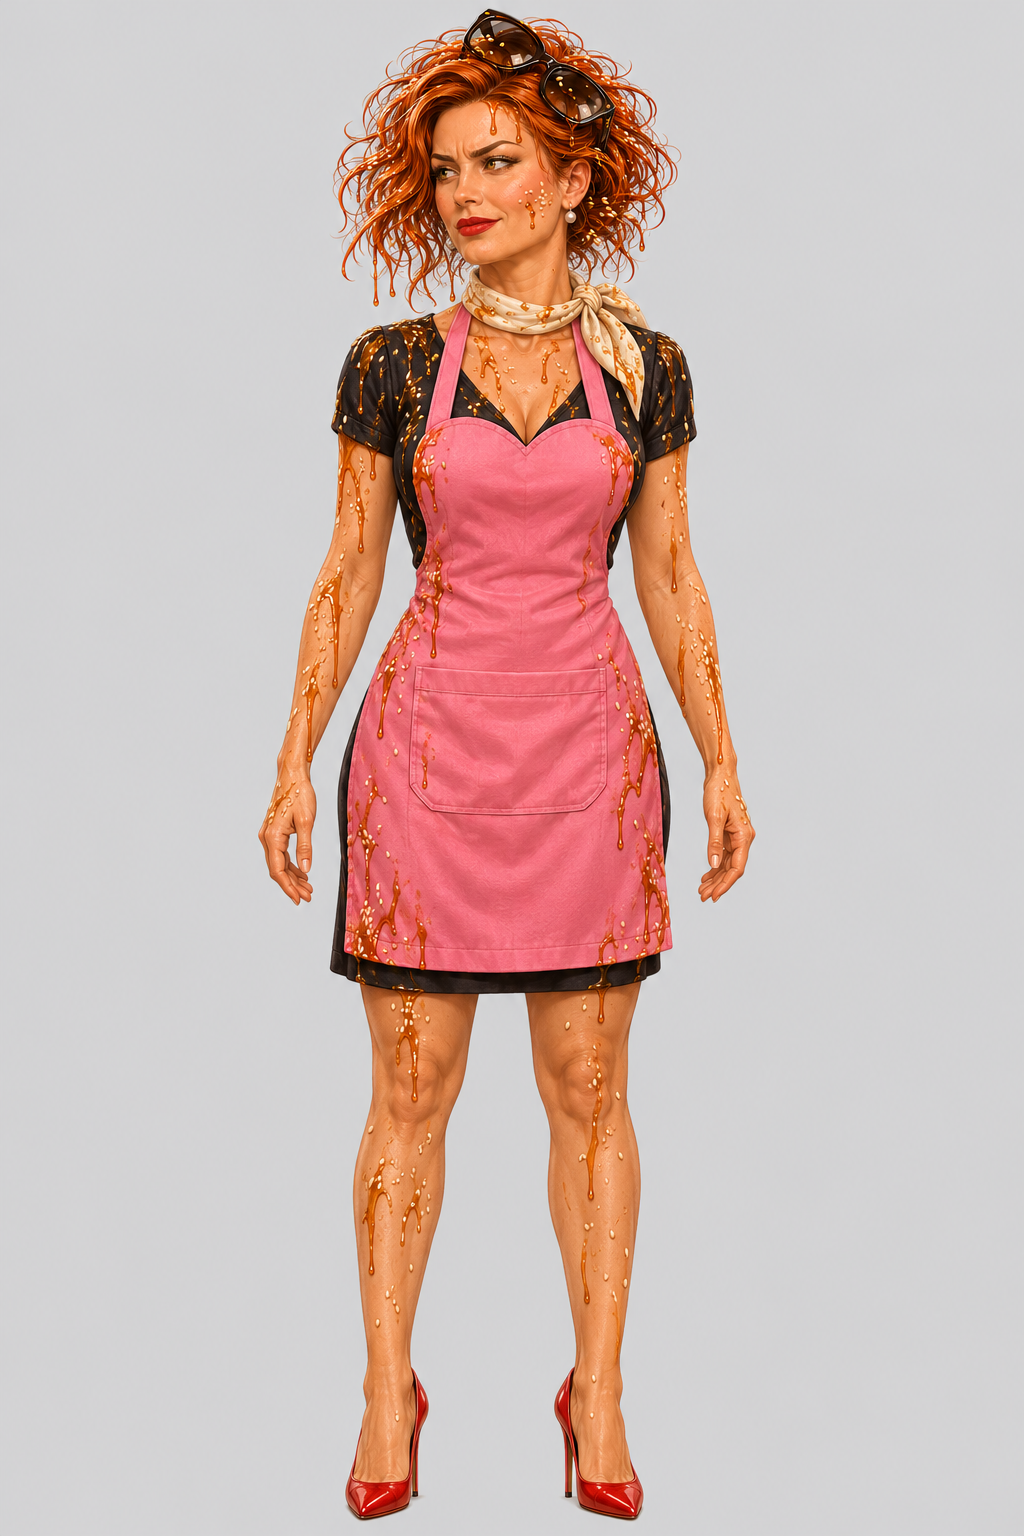
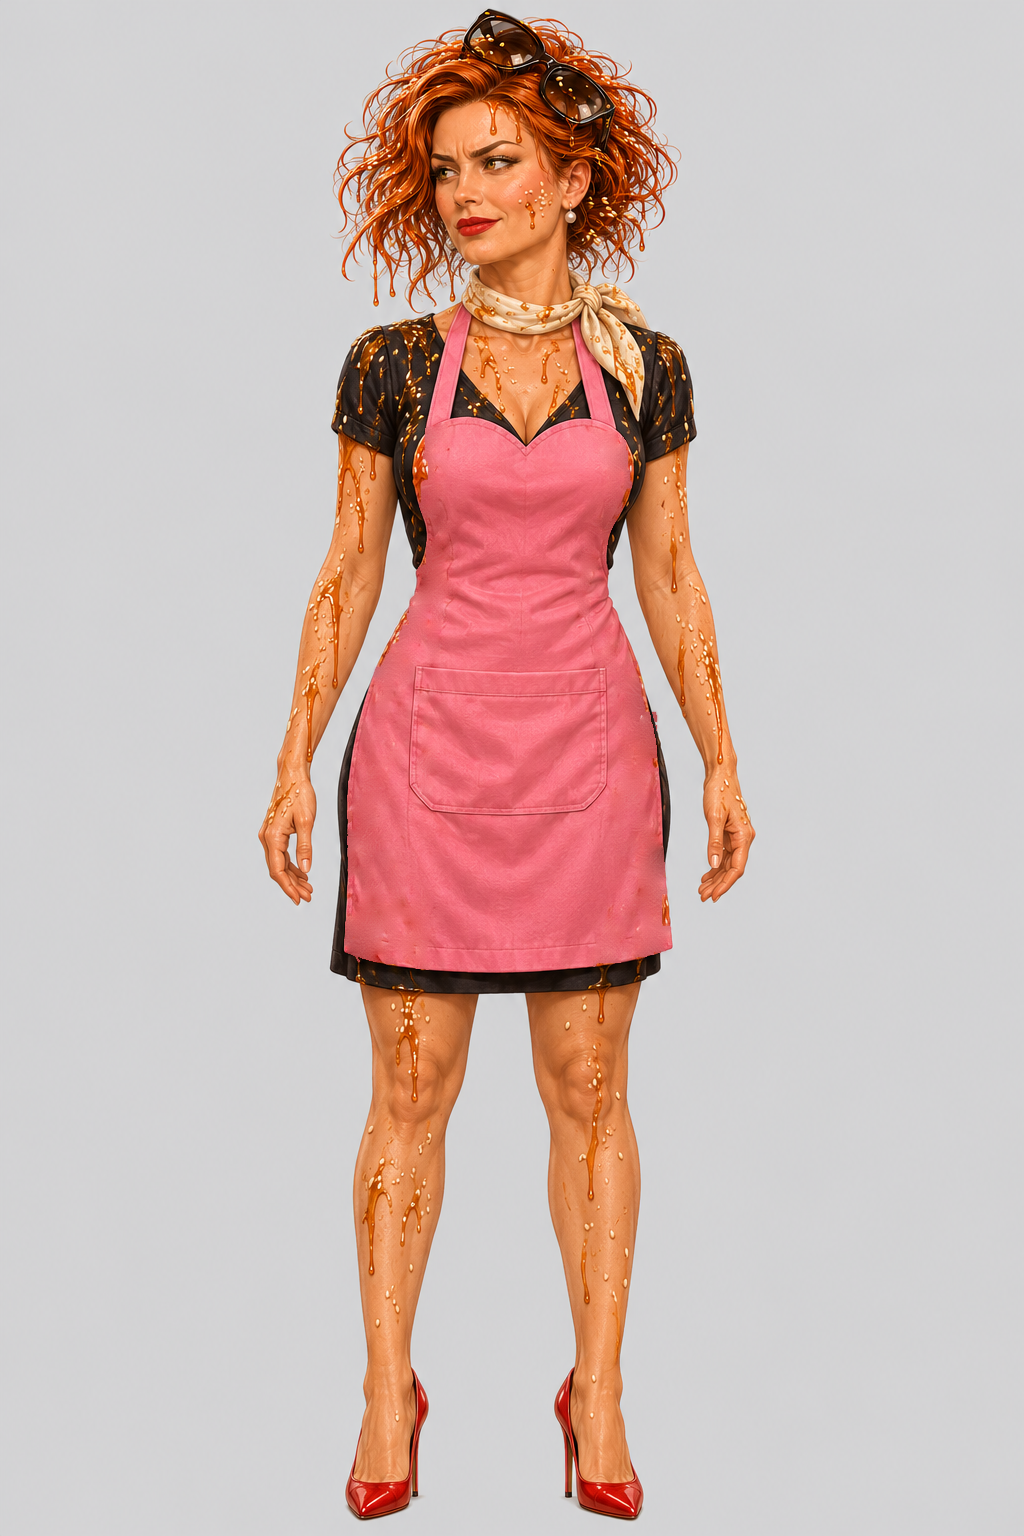
Vaka 3: kıyafet kartı G103'ün önlüğü de temizlendi
Önlüklü Peri'nin kıyafet kartı (referans; oyunda görünmez) da pekmezli ve
susamlıydı. Aynı yöntemle yalnız önlük temizlendi; istem notları güncellendi.

diff --git a/uretim/v3/prompts/G65.md b/uretim/v3/prompts/G65.md
@@ -55,4 +55,4 @@ Peri'nin elbisesi, pembe önlüğü, kolları ve bacakları hâlâ pekmezli ve s
 
 ## Düzeltme (9 Kasım 2026)
 
-Önlükteki pekmez ve susam onaydan sonra fark edildi: Gizem temiz bir önlük veriyor, önlük TEMİZ olmalı. `onayli/G65.png` ve oyundaki dosya elle temizlendi (yalnız önlük; resmin geri kalanı aynı). Bu istem yeniden kullanılırsa önlük için "üstünde hiç pekmez, hiç susam yok" yazılır; kart G103 da lekeli, referans verilirse bu söylenir.
+Önlükteki pekmez ve susam onaydan sonra fark edildi: Gizem temiz bir önlük veriyor, önlük TEMİZ olmalı. `onayli/G65.png` ve oyundaki dosya elle temizlendi (yalnız önlük; resmin geri kalanı aynı). Bu istem yeniden kullanılırsa önlük için "üstünde hiç pekmez, hiç susam yok" yazılır; kart G103 da aynı gün temizlendi.

diff --git a/uretim/v3/prompts/G66.md b/uretim/v3/prompts/G66.md
@@ -49,4 +49,4 @@ Peri'nin TAM İKİ eli var: SOL elinin işaret parmağı dudaklarında ("şşş"
 
 ## Düzeltme (9 Kasım 2026)
 
-Önlükteki pekmez ve susam onaydan sonra fark edildi: Gizem temiz bir önlük veriyor, önlük TEMİZ olmalı. `onayli/G66.png` ve oyundaki dosya elle temizlendi (yalnız önlük; resmin geri kalanı aynı). Bu istem yeniden kullanılırsa önlük için "üstünde hiç pekmez, hiç susam yok" yazılır; kart G103 da lekeli, referans verilirse bu söylenir.
+Önlükteki pekmez ve susam onaydan sonra fark edildi: Gizem temiz bir önlük veriyor, önlük TEMİZ olmalı. `onayli/G66.png` ve oyundaki dosya elle temizlendi (yalnız önlük; resmin geri kalanı aynı). Bu istem yeniden kullanılırsa önlük için "üstünde hiç pekmez, hiç susam yok" yazılır; kart G103 da aynı gün temizlendi.

diff --git a/uretim/v3/prompts/G3.md b/uretim/v3/prompts/G3.md
@@ -48,4 +48,4 @@ Son referans YALNIZ bitmiş çizim tarzı örneğidir: boya dokusu, ince kontur,
 
 ## Düzeltme (9 Kasım 2026)
 
-Önlükteki pekmez ve susam onaydan sonra fark edildi: Gizem temiz bir önlük veriyor, önlük TEMİZ olmalı. `onayli/G3.png` ve oyundaki dosya elle temizlendi (yalnız önlük; resmin geri kalanı aynı). Bu istem yeniden kullanılırsa önlük için "üstünde hiç pekmez, hiç susam yok" yazılır; kart G103 da lekeli, referans verilirse bu söylenir.
+Önlükteki pekmez ve susam onaydan sonra fark edildi: Gizem temiz bir önlük veriyor, önlük TEMİZ olmalı. `onayli/G3.png` ve oyundaki dosya elle temizlendi (yalnız önlük; resmin geri kalanı aynı). Bu istem yeniden kullanılırsa önlük için "üstünde hiç pekmez, hiç susam yok" yazılır; kart G103 da aynı gün temizlendi.

diff --git a/uretim/v3/prompts/G26.md b/uretim/v3/prompts/G26.md
@@ -48,4 +48,4 @@ Görselin oranı TAM 4:5, dikey (1122×1402).
 
 ## Düzeltme (9 Kasım 2026)
 
-Önlükteki pekmez ve susam onaydan sonra fark edildi: Gizem temiz bir önlük veriyor, önlük TEMİZ olmalı. `onayli/G26.png` ve oyundaki dosya elle temizlendi (yalnız önlük; resmin geri kalanı aynı). Bu istem yeniden kullanılırsa önlük için "üstünde hiç pekmez, hiç susam yok" yazılır; kart G103 da lekeli, referans verilirse bu söylenir.
+Önlükteki pekmez ve susam onaydan sonra fark edildi: Gizem temiz bir önlük veriyor, önlük TEMİZ olmalı. `onayli/G26.png` ve oyundaki dosya elle temizlendi (yalnız önlük; resmin geri kalanı aynı). Bu istem yeniden kullanılırsa önlük için "üstünde hiç pekmez, hiç susam yok" yazılır; kart G103 da aynı gün temizlendi.

diff --git a/uretim/v3/prompts/G27.md b/uretim/v3/prompts/G27.md
@@ -45,4 +45,4 @@ Görselin oranı TAM 4:5, dikey (1122×1402).
 
 ## Düzeltme (9 Kasım 2026)
 
-Önlükteki pekmez ve susam onaydan sonra fark edildi: Gizem temiz bir önlük veriyor, önlük TEMİZ olmalı. `onayli/G27.png` ve oyundaki dosya elle temizlendi (yalnız önlük; resmin geri kalanı aynı). Bu istem yeniden kullanılırsa önlük için "üstünde hiç pekmez, hiç susam yok" yazılır; kart G103 da lekeli, referans verilirse bu söylenir.
+Önlükteki pekmez ve susam onaydan sonra fark edildi: Gizem temiz bir önlük veriyor, önlük TEMİZ olmalı. `onayli/G27.png` ve oyundaki dosya elle temizlendi (yalnız önlük; resmin geri kalanı aynı). Bu istem yeniden kullanılırsa önlük için "üstünde hiç pekmez, hiç susam yok" yazılır; kart G103 da aynı gün temizlendi.

diff --git a/uretim/v3/prompts/G28.md b/uretim/v3/prompts/G28.md
@@ -44,4 +44,4 @@ Görselin oranı TAM 4:5, dikey (1122×1402).
 
 ## Düzeltme (9 Kasım 2026)
 
-Önlükteki pekmez ve susam onaydan sonra fark edildi: Gizem temiz bir önlük veriyor, önlük TEMİZ olmalı. `onayli/G28.png` ve oyundaki dosya elle temizlendi (yalnız önlük; resmin geri kalanı aynı). Bu istem yeniden kullanılırsa önlük için "üstünde hiç pekmez, hiç susam yok" yazılır; kart G103 da lekeli, referans verilirse bu söylenir.
+Önlükteki pekmez ve susam onaydan sonra fark edildi: Gizem temiz bir önlük veriyor, önlük TEMİZ olmalı. `onayli/G28.png` ve oyundaki dosya elle temizlendi (yalnız önlük; resmin geri kalanı aynı). Bu istem yeniden kullanılırsa önlük için "üstünde hiç pekmez, hiç susam yok" yazılır; kart G103 da aynı gün temizlendi.

diff --git a/uretim/v3/prompts/G63.md b/uretim/v3/prompts/G63.md
@@ -43,4 +43,4 @@ Görselin oranı TAM 3:4, dikey (1086×1448).
 
 ## Düzeltme (9 Kasım 2026)
 
-Önlükteki pekmez ve susam onaydan sonra fark edildi: Gizem temiz bir önlük veriyor, önlük TEMİZ olmalı. `onayli/G63.png` ve oyundaki dosya elle temizlendi (yalnız önlük; resmin geri kalanı aynı). Bu istem yeniden kullanılırsa önlük için "üstünde hiç pekmez, hiç susam yok" yazılır; kart G103 da lekeli, referans verilirse bu söylenir.
+Önlükteki pekmez ve susam onaydan sonra fark edildi: Gizem temiz bir önlük veriyor, önlük TEMİZ olmalı. `onayli/G63.png` ve oyundaki dosya elle temizlendi (yalnız önlük; resmin geri kalanı aynı). Bu istem yeniden kullanılırsa önlük için "üstünde hiç pekmez, hiç susam yok" yazılır; kart G103 da aynı gün temizlendi.

diff --git a/uretim/v3/prompts/G64.md b/uretim/v3/prompts/G64.md
@@ -44,4 +44,4 @@ Görselin oranı TAM 3:4, dikey (1086×1448).
 
 ## Düzeltme (9 Kasım 2026)
 
-Önlükteki pekmez ve susam onaydan sonra fark edildi: Gizem temiz bir önlük veriyor, önlük TEMİZ olmalı. `onayli/G64.png` ve oyundaki dosya elle temizlendi (yalnız önlük; resmin geri kalanı aynı). Bu istem yeniden kullanılırsa önlük için "üstünde hiç pekmez, hiç susam yok" yazılır; kart G103 da lekeli, referans verilirse bu söylenir.
+Önlükteki pekmez ve susam onaydan sonra fark edildi: Gizem temiz bir önlük veriyor, önlük TEMİZ olmalı. `onayli/G64.png` ve oyundaki dosya elle temizlendi (yalnız önlük; resmin geri kalanı aynı). Bu istem yeniden kullanılırsa önlük için "üstünde hiç pekmez, hiç susam yok" yazılır; kart G103 da aynı gün temizlendi.

diff --git a/uretim/v3/prompts/G76.md b/uretim/v3/prompts/G76.md
@@ -45,4 +45,4 @@ Görselin oranı TAM 4:5, dikey (1122×1402).
 
 ## Düzeltme (9 Kasım 2026)
 
-Önlükteki pekmez ve susam onaydan sonra fark edildi: Gizem temiz bir önlük veriyor, önlük TEMİZ olmalı. `onayli/G76.png` ve oyundaki dosya elle temizlendi (yalnız önlük; resmin geri kalanı aynı). Bu istem yeniden kullanılırsa önlük için "üstünde hiç pekmez, hiç susam yok" yazılır; kart G103 da lekeli, referans verilirse bu söylenir.
+Önlükteki pekmez ve susam onaydan sonra fark edildi: Gizem temiz bir önlük veriyor, önlük TEMİZ olmalı. `onayli/G76.png` ve oyundaki dosya elle temizlendi (yalnız önlük; resmin geri kalanı aynı). Bu istem yeniden kullanılırsa önlük için "üstünde hiç pekmez, hiç susam yok" yazılır; kart G103 da aynı gün temizlendi.

diff --git a/uretim/v3/prompts/G77.md b/uretim/v3/prompts/G77.md
@@ -45,4 +45,4 @@ Görselin oranı TAM 4:5, dikey (1122×1402).
 
 ## Düzeltme (9 Kasım 2026)
 
-Önlükteki pekmez ve susam onaydan sonra fark edildi: Gizem temiz bir önlük veriyor, önlük TEMİZ olmalı. `onayli/G77.png` ve oyundaki dosya elle temizlendi (yalnız önlük; resmin geri kalanı aynı). Bu istem yeniden kullanılırsa önlük için "üstünde hiç pekmez, hiç susam yok" yazılır; kart G103 da lekeli, referans verilirse bu söylenir.
+Önlükteki pekmez ve susam onaydan sonra fark edildi: Gizem temiz bir önlük veriyor, önlük TEMİZ olmalı. `onayli/G77.png` ve oyundaki dosya elle temizlendi (yalnız önlük; resmin geri kalanı aynı). Bu istem yeniden kullanılırsa önlük için "üstünde hiç pekmez, hiç susam yok" yazılır; kart G103 da aynı gün temizlendi.

diff --git a/uretim/v3/prompts/G96.md b/uretim/v3/prompts/G96.md
@@ -44,4 +44,4 @@ Görselin oranı TAM 3:4, dikey (1086×1448).
 
 ## Düzeltme (9 Kasım 2026)
 
-Önlükteki pekmez ve susam onaydan sonra fark edildi: Gizem temiz bir önlük veriyor, önlük TEMİZ olmalı. `onayli/G96.png` ve oyundaki dosya elle temizlendi (yalnız önlük; resmin geri kalanı aynı). Bu istem yeniden kullanılırsa önlük için "üstünde hiç pekmez, hiç susam yok" yazılır; kart G103 da lekeli, referans verilirse bu söylenir.
+Önlükteki pekmez ve susam onaydan sonra fark edildi: Gizem temiz bir önlük veriyor, önlük TEMİZ olmalı. `onayli/G96.png` ve oyundaki dosya elle temizlendi (yalnız önlük; resmin geri kalanı aynı). Bu istem yeniden kullanılırsa önlük için "üstünde hiç pekmez, hiç susam yok" yazılır; kart G103 da aynı gün temizlendi.

diff --git a/uretim/v3/prompts/G97.md b/uretim/v3/prompts/G97.md
@@ -44,4 +44,4 @@ Görselin oranı TAM 3:4, dikey (1086×1448).
 
 ## Düzeltme (9 Kasım 2026)
 
-Önlükteki pekmez ve susam onaydan sonra fark edildi: Gizem temiz bir önlük veriyor, önlük TEMİZ olmalı. `onayli/G97.png` ve oyundaki dosya elle temizlendi (yalnız önlük; resmin geri kalanı aynı). Bu istem yeniden kullanılırsa önlük için "üstünde hiç pekmez, hiç susam yok" yazılır; kart G103 da lekeli, referans verilirse bu söylenir.
+Önlükteki pekmez ve susam onaydan sonra fark edildi: Gizem temiz bir önlük veriyor, önlük TEMİZ olmalı. `onayli/G97.png` ve oyundaki dosya elle temizlendi (yalnız önlük; resmin geri kalanı aynı). Bu istem yeniden kullanılırsa önlük için "üstünde hiç pekmez, hiç susam yok" yazılır; kart G103 da aynı gün temizlendi.
